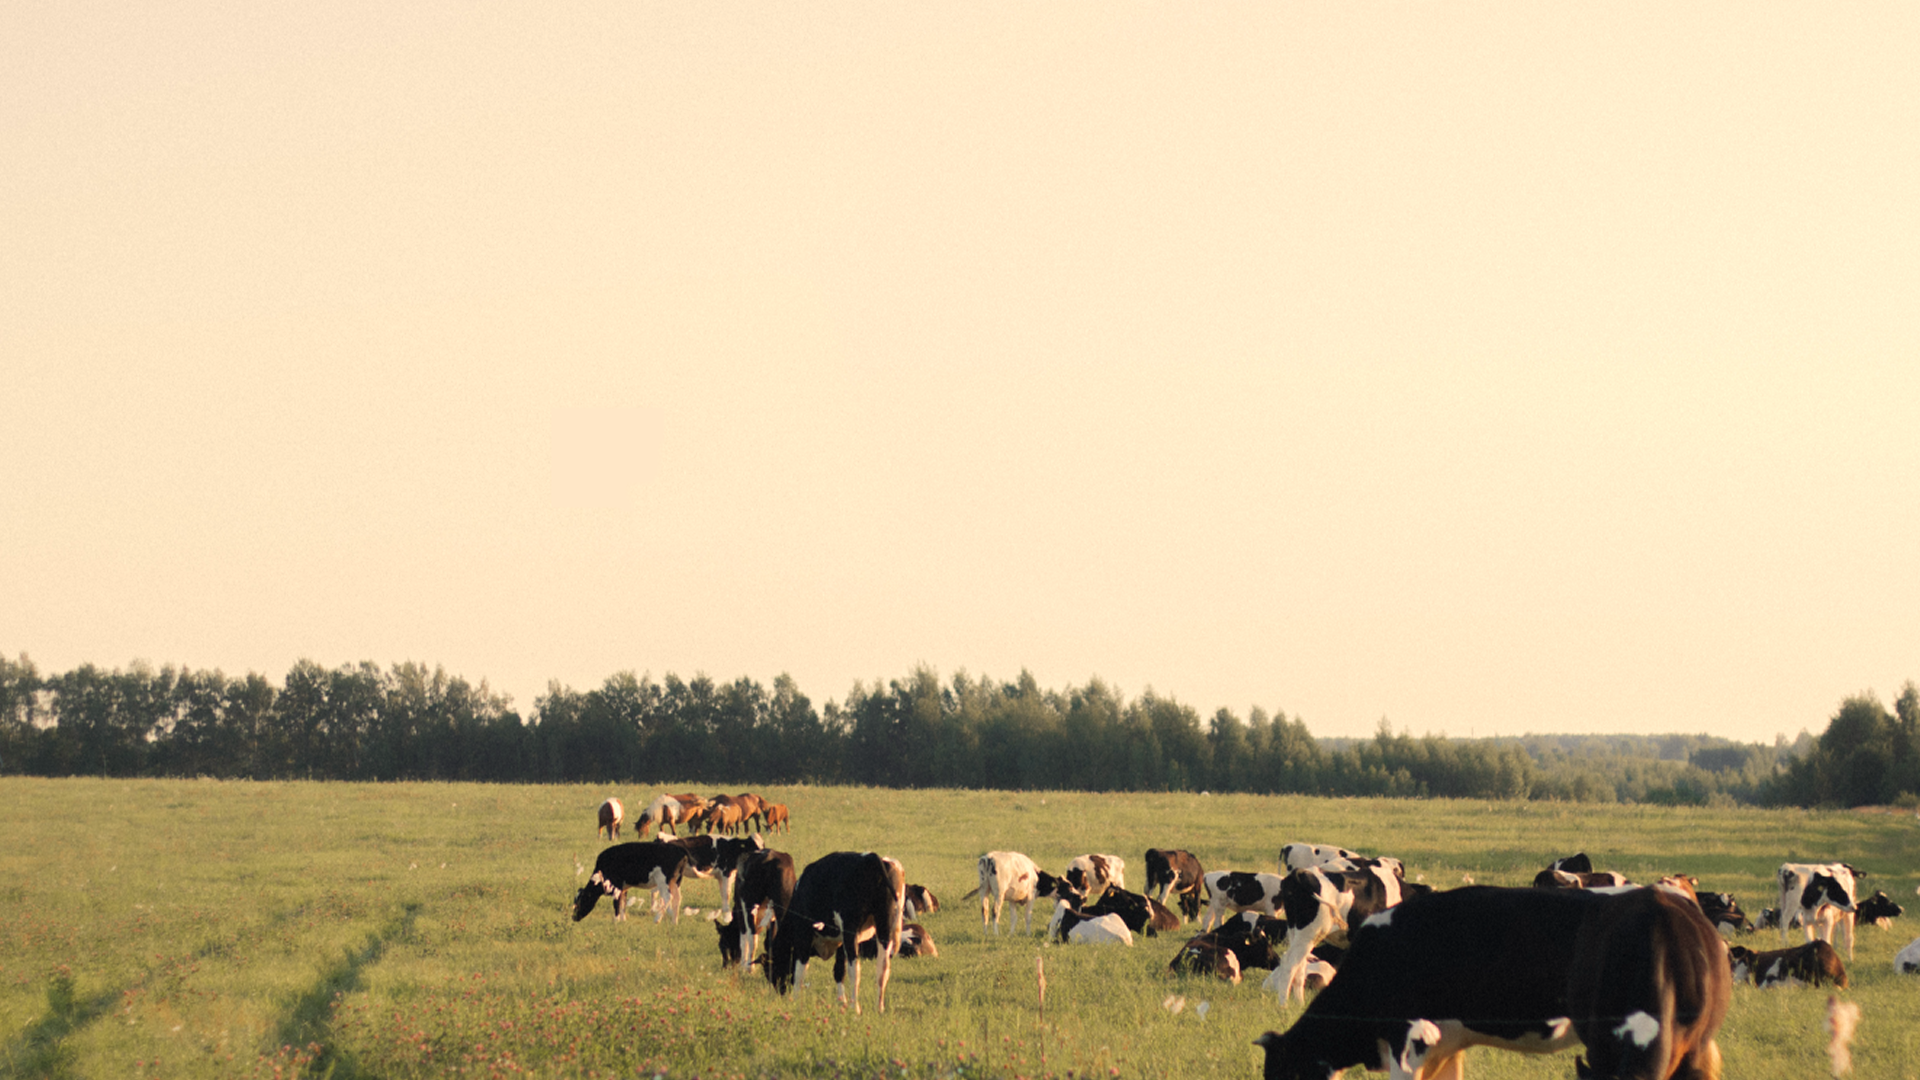
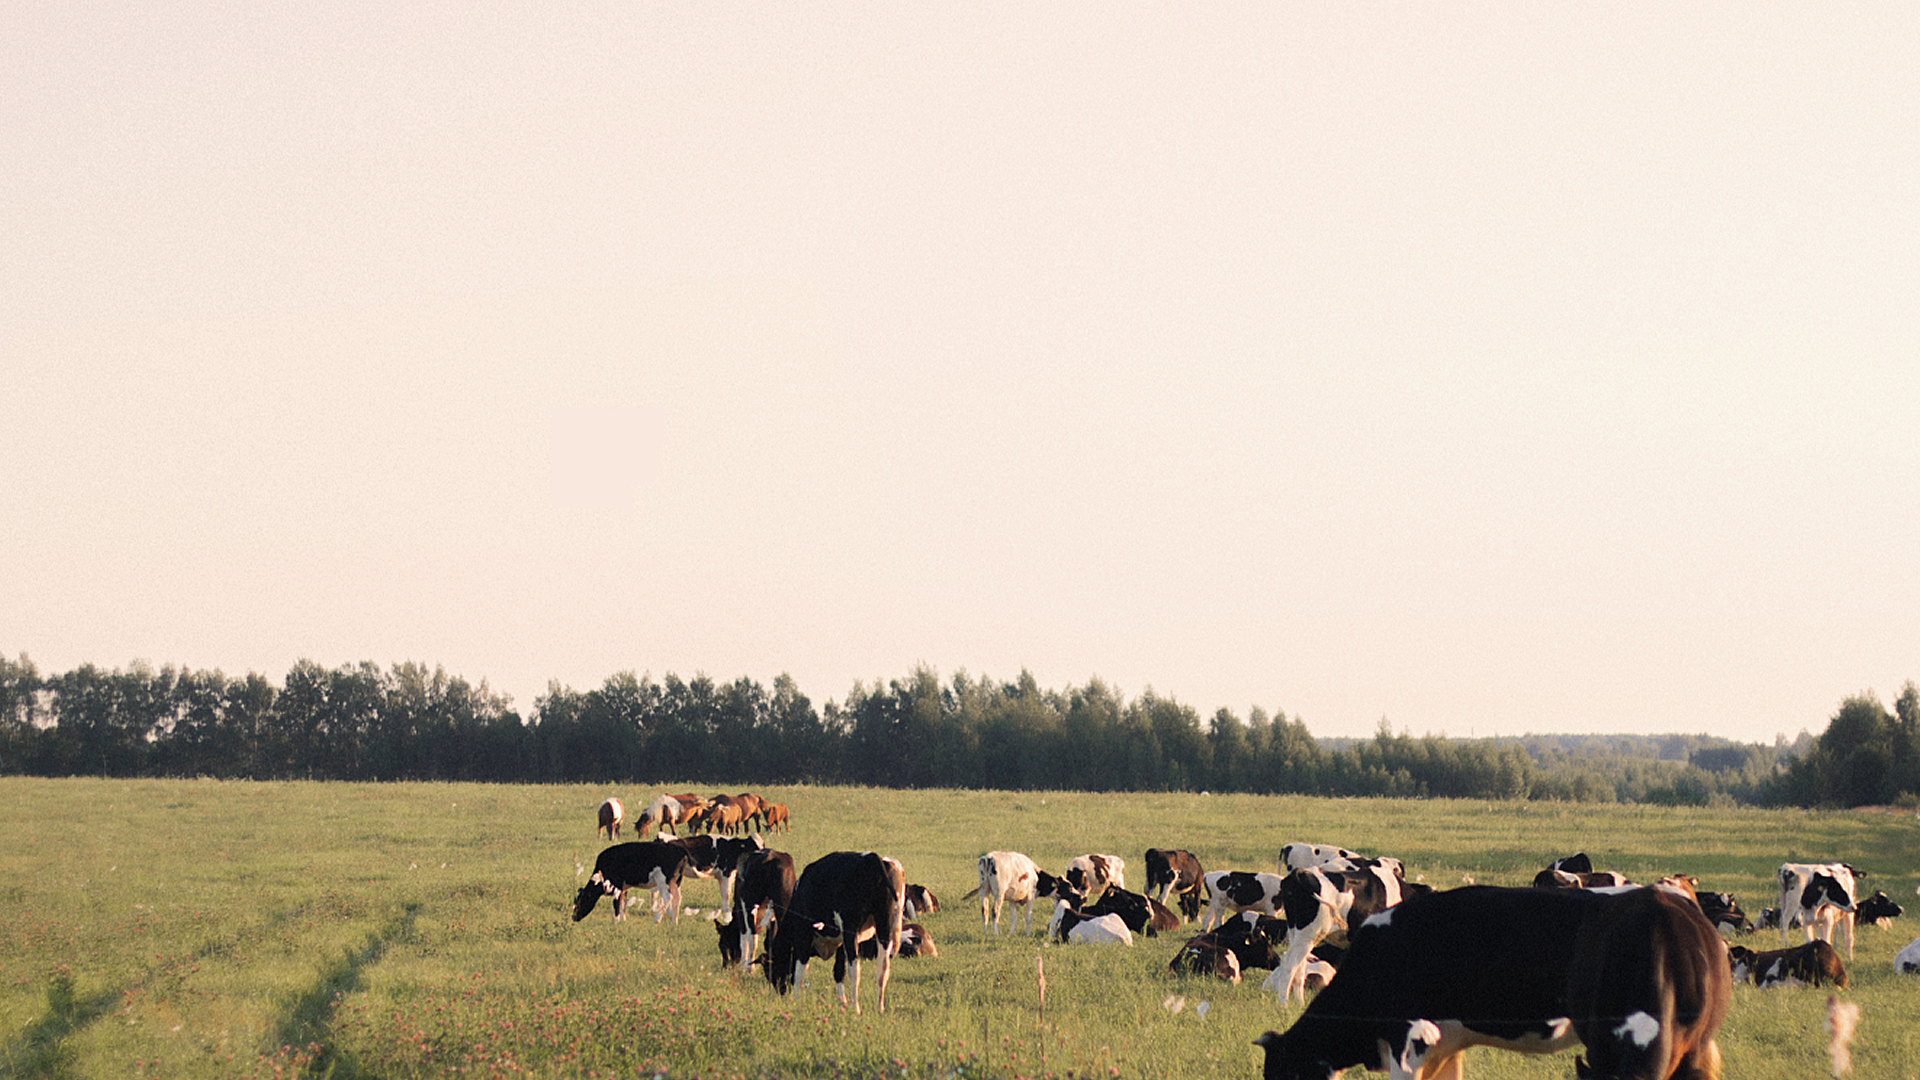
Atualizações finais

diff --git a/css/styleindex.css b/css/styleindex.css
@@ -43,6 +43,8 @@
     height: 150px;
     width: 100%;
     background-color: #465640;
+    padding-top: 20px;
+    padding-bottom: 20px;
 }
 .manutencao,.colaborador,.gestao {
     height: 150px;
@@ -405,13 +407,12 @@ a{
     background-color: #465640;
     width: 200px;
     height: 100%;
-    border-radius: 20px;
+ 
     flex-shrink: 0;
     
 }
 .pecuaria img{
-    border-top-right-radius: 20px;
-    border-top-left-radius: 20px;
+
     object-fit: contain;  
     display: block;
 }

diff --git a/css/esqueciSenha.css b/css/esqueciSenha.css
@@ -1,7 +1,7 @@
 
     @import url('https://fonts.googleapis.com/css2?family=Montserrat:ital,wght@0,100..900;1,100..900&display=swap');
     .background-image{
-        background-image: url(/IMG/vaca-no-pasto.jpg);
+        background-image: url(/IMG/AgroNeo\ -\ propaganda\ \(1\).png);
         background-repeat: no-repeat;
         background-size: cover;
         background-position: left center;
